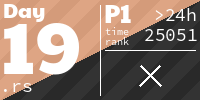
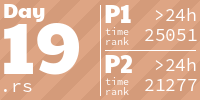
Add day 19

diff --git a/2020/19/19.rs b/2020/19/19.rs
@@ -6,7 +6,7 @@ use regex::Regex;
 fn resolve(
     curr: &str,
     rules: &HashMap<String, Vec<Vec<String>>>,
-    resolved: &mut HashMap<String, String>
+    resolved: &mut HashMap<String, String>,
 ) -> String {
     if let Some(value) = resolved.get(curr) {
         return value.to_string();
@@ -24,6 +24,7 @@ fn resolve(
 
 fn main() {
     let lines = stdin().lines().filter_map(Result::ok).join("\n");
+
     let (rules_str, messages) = lines.split("\n\n").next_tuple().unwrap();
     let mut rules = HashMap::new();
     for rule in rules_str.lines() {
@@ -42,7 +43,12 @@ fn main() {
         .map(|(&ref k, v)| (k.to_owned(), v.trim_matches('"').to_owned()))
         .collect();
 
-    let pattern = resolve("0", &rules, &mut resolved);
-    let regex = Regex::new(&format!("^{pattern}$")).unwrap();
-    println!("{:?}", messages.lines().filter(|line| regex.is_match(line)).count());
+    let p42 = resolve("42", &rules, &mut resolved);
+    let p31 = resolve("31", &rules, &mut resolved);
+    let regex1 = Regex::new(&format!("^{p42}{p42}{p31}$")).unwrap();
+    println!("{}", messages.lines().filter(|l| regex1.is_match(l)).count());
+
+    let pattern2 = (1..6).map(|i| format!("({p42}+{p42}{{{i}}}{p31}{{{i}}})")).join("|");
+    let regex2 = Regex::new(&format!("^({pattern2})$")).unwrap();
+    println!("{}", messages.lines().filter(|l| regex2.is_match(l)).count());
 }

diff --git a/README.md b/README.md
@@ -1,6 +1,6 @@
 <!-- AOC TILES BEGIN -->
 <h1 align="center">
-  Advent of Code - 187/450 ⭐
+  Advent of Code - 188/450 ⭐
 </h1>
 <h1 align="center">
   2023 - 50 ⭐
@@ -237,7 +237,7 @@
   <img src=".aoc_tiles/tiles/2021/25.png" width="161px">
 </a>
 <h1 align="center">
-  2020 - 37 ⭐
+  2020 - 38 ⭐
 </h1>
 <a href="2020/01/01.rs">
   <img src=".aoc_tiles/tiles/2020/01.png" width="161px">
